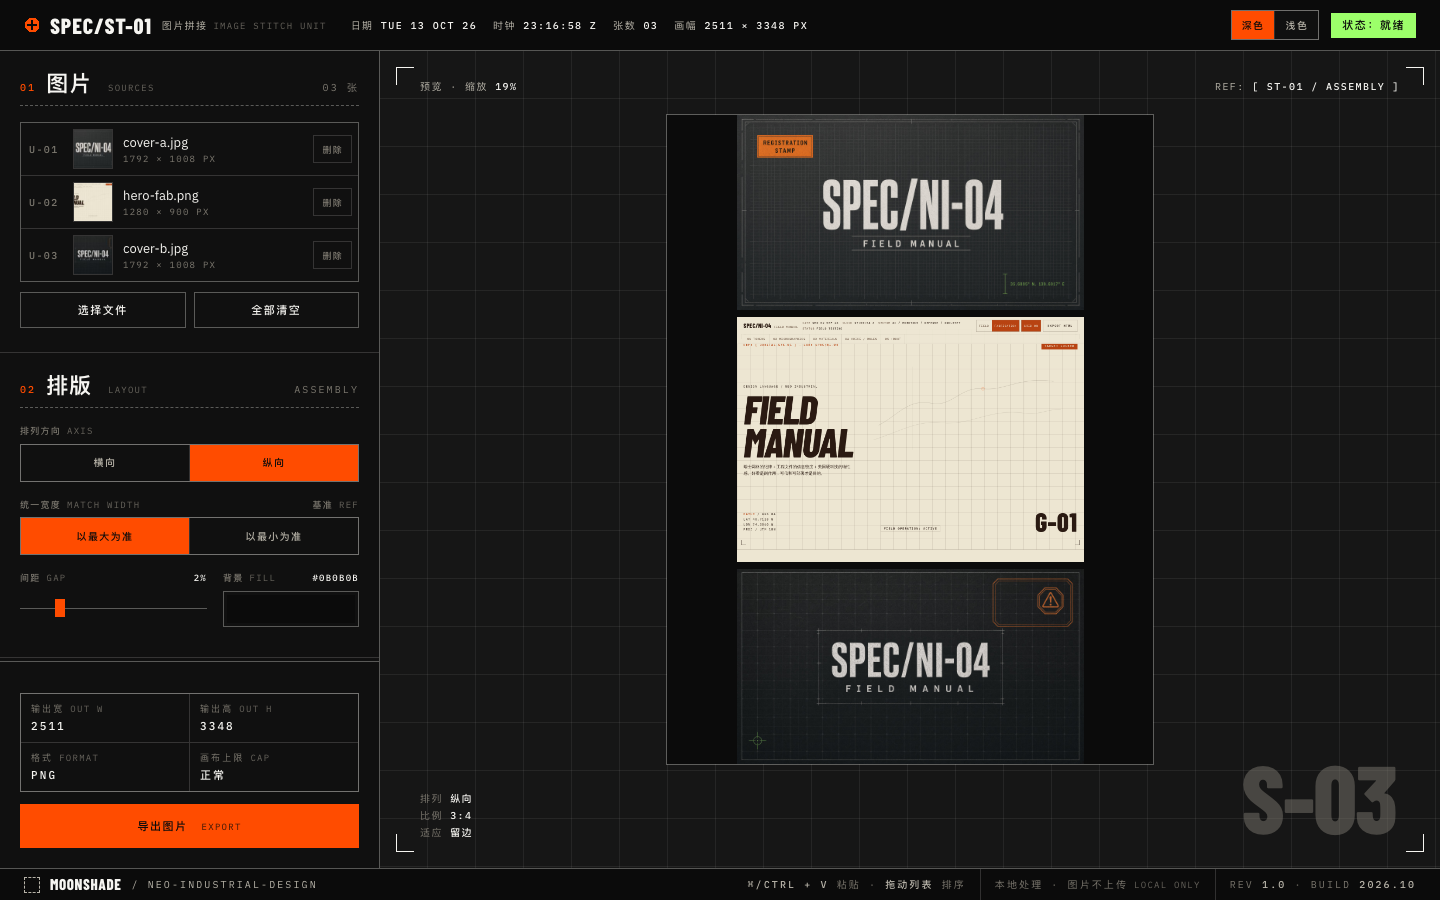
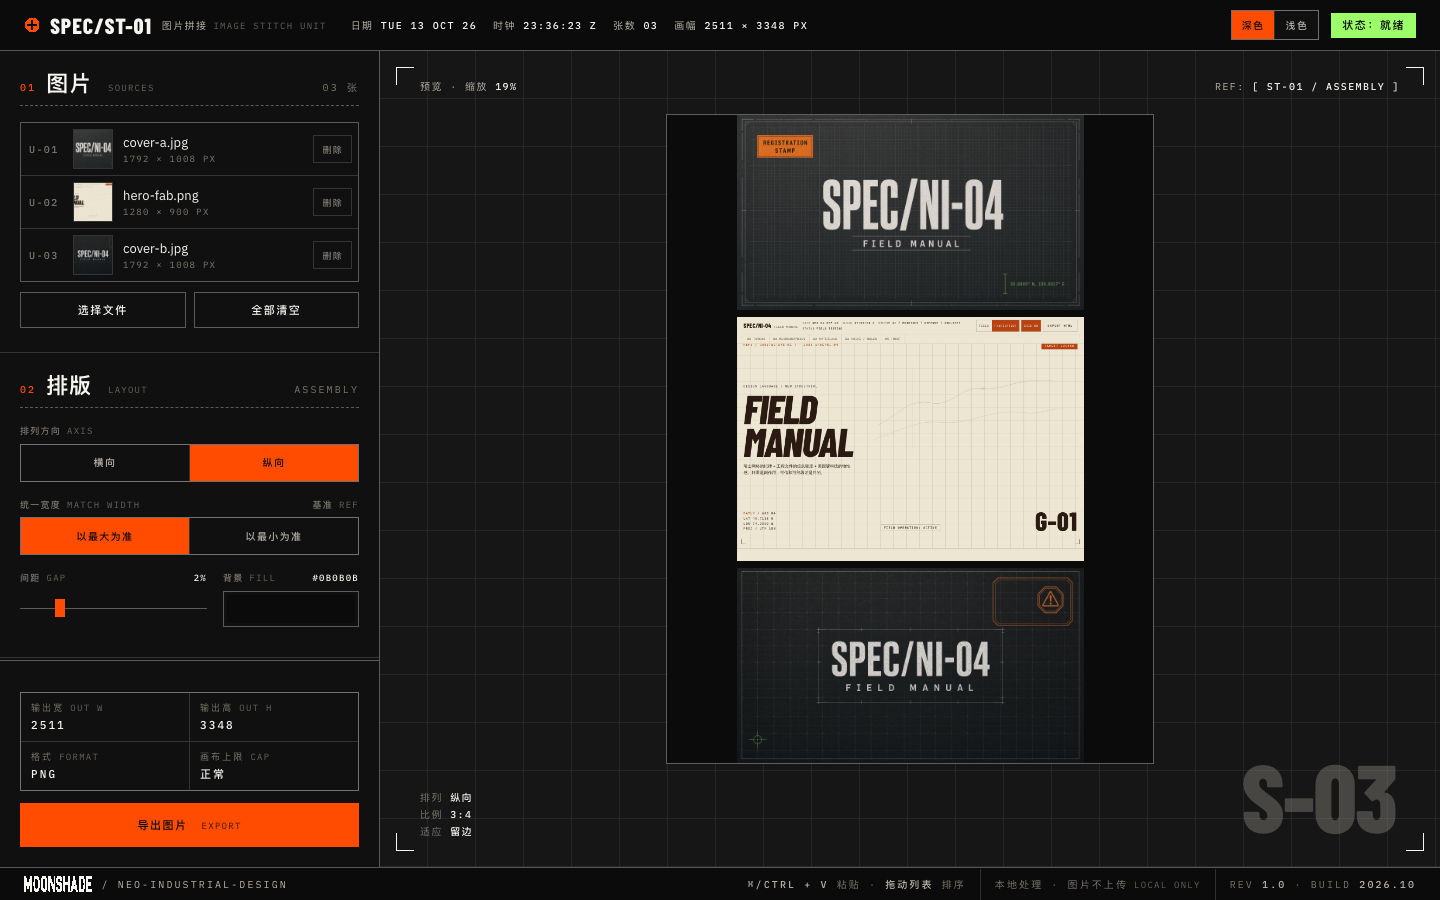
Use the MoonShade pixel wordmark in the image-stitcher footer
Replaces the dashed placeholder mark and the MOONSHADE text with the
pixel wordmark from the MoonShade design system, inlined as SVG and
filled with currentColor so it follows both atmospheres and the hover
state. The footer is 33px so the 16px mark lands on whole pixels.

diff --git a/examples/image-stitcher/index.html b/examples/image-stitcher/index.html
@@ -276,14 +276,13 @@ input[type=number]:hover { border-color: var(--text-primary); }
 /* ---------- 底部工具栏 ---------- */
 .foot {
   display: flex; align-items: center; justify-content: space-between; gap: 8px 24px; flex-wrap: wrap;
-  min-height: 32px; padding: 0 24px; border-top: 1px solid var(--border-strong); background: var(--surface-primary);
+  min-height: 33px; padding: 0 24px; border-top: 1px solid var(--border-strong); background: var(--surface-primary);
 }
 .sig { display: inline-flex; align-items: center; gap: 10px; color: var(--text-secondary); text-decoration: none; transition: color var(--motion-base) var(--ease); }
 .sig:hover { color: var(--signal-primary); }
-/* 个人标记占位：虚线=未定稿，拿到正式标记后替换为 SVG */
-.sig-mark { width: 16px; height: 16px; flex: none; border: 1px dashed currentColor; }
-.sig-name { font-family: var(--font-display); font-weight: 800; font-size: 15px; line-height: 1; letter-spacing: 0.04em; color: var(--text-primary); transition: color var(--motion-base) var(--ease); }
-.sig:hover .sig-name { color: var(--signal-primary); }
+/* 像素文字标共 16 行，高度取 16px 让每行正好落在整像素上 */
+.sig-logo { display: block; height: 16px; width: auto; flex: none; color: var(--text-primary); transition: color var(--motion-base) var(--ease); }
+.sig:hover .sig-logo { color: var(--signal-primary); }
 .sig-sys { font-size: var(--text-meta); font-weight: 400; }
 .foot-right { display: flex; flex-wrap: wrap; font-size: var(--text-meta); font-weight: 400; color: var(--text-muted); }
 .foot-right span { padding: 8px 0 8px 14px; margin-left: 14px; border-left: 1px solid var(--border-default); }
@@ -442,8 +441,7 @@ input[type=number]:hover { border-color: var(--text-primary); }
 
   <footer class="foot mono">
     <a class="sig" href="https://github.com/CloudyMoonShape/neo-industrial-design" target="_blank" rel="noopener">
-      <span class="sig-mark" aria-hidden="true"></span>
-      <span class="sig-name">MOONSHADE</span>
+      <svg class="sig-logo" viewBox="0 0 710 168" shape-rendering="crispEdges" role="img" aria-label="MoonShade"><g fill="currentColor"><rect x="0" y="0" width="20" height="10.5"/><rect x="65" y="0" width="20" height="10.5"/><rect x="110" y="0" width="40" height="10.5"/><rect x="190" y="0" width="40" height="10.5"/><rect x="255" y="0" width="25" height="10.5"/><rect x="310" y="0" width="15" height="10.5"/><rect x="350" y="0" width="40" height="10.5"/><rect x="410" y="0" width="20" height="10.5"/><rect x="460" y="0" width="20" height="10.5"/><rect x="515" y="0" width="20" height="10.5"/><rect x="575" y="0" width="50" height="10.5"/><rect x="650" y="0" width="60" height="10.5"/><rect x="0" y="10.5" width="25" height="10.5"/><rect x="60" y="10.5" width="25" height="10.5"/><rect x="105" y="10.5" width="50" height="10.5"/><rect x="185" y="10.5" width="50" height="10.5"/><rect x="255" y="10.5" width="25" height="10.5"/><rect x="310" y="10.5" width="15" height="10.5"/><rect x="345" y="10.5" width="50" height="10.5"/><rect x="410" y="10.5" width="20" height="10.5"/><rect x="460" y="10.5" width="20" height="10.5"/><rect x="515" y="10.5" width="20" height="10.5"/><rect x="575" y="10.5" width="55" height="10.5"/><rect x="650" y="10.5" width="60" height="10.5"/><rect x="0" y="21" width="30" height="10.5"/><rect x="60" y="21" width="25" height="10.5"/><rect x="100" y="21" width="60" height="10.5"/><rect x="180" y="21" width="60" height="10.5"/><rect x="255" y="21" width="30" height="10.5"/><rect x="310" y="21" width="15" height="10.5"/><rect x="340" y="21" width="60" height="10.5"/><rect x="410" y="21" width="20" height="10.5"/><rect x="460" y="21" width="20" height="10.5"/><rect x="515" y="21" width="25" height="10.5"/><rect x="575" y="21" width="60" height="10.5"/><rect x="650" y="21" width="60" height="10.5"/><rect x="0" y="31.5" width="30" height="10.5"/><rect x="55" y="31.5" width="30" height="10.5"/><rect x="100" y="31.5" width="20" height="10.5"/><rect x="140" y="31.5" width="20" height="10.5"/><rect x="180" y="31.5" width="20" height="10.5"/><rect x="220" y="31.5" width="20" height="10.5"/><rect x="255" y="31.5" width="35" height="10.5"/><rect x="310" y="31.5" width="15" height="10.5"/><rect x="340" y="31.5" width="20" height="10.5"/><rect x="380" y="31.5" width="20" height="10.5"/><rect x="410" y="31.5" width="20" height="10.5"/><rect x="460" y="31.5" width="20" height="10.5"/><rect x="510" y="31.5" width="30" height="10.5"/><rect x="575" y="31.5" width="20" height="10.5"/><rect x="615" y="31.5" width="25" height="10.5"/><rect x="650" y="31.5" width="20" height="10.5"/><rect x="0" y="42" width="35" height="10.5"/><rect x="55" y="42" width="30" height="10.5"/><rect x="100" y="42" width="20" height="10.5"/><rect x="145" y="42" width="20" height="10.5"/><rect x="180" y="42" width="20" height="10.5"/><rect x="225" y="42" width="20" height="10.5"/><rect x="255" y="42" width="35" height="10.5"/><rect x="310" y="42" width="15" height="10.5"/><rect x="340" y="42" width="15" height="10.5"/><rect x="380" y="42" width="20" height="10.5"/><rect x="410" y="42" width="20" height="10.5"/><rect x="460" y="42" width="20" height="10.5"/><rect x="510" y="42" width="35" height="10.5"/><rect x="575" y="42" width="20" height="10.5"/><rect x="620" y="42" width="20" height="10.5"/><rect x="650" y="42" width="20" height="10.5"/><rect x="0" y="52.5" width="35" height="10.5"/><rect x="50" y="52.5" width="35" height="10.5"/><rect x="100" y="52.5" width="15" height="10.5"/><rect x="145" y="52.5" width="20" height="10.5"/><rect x="180" y="52.5" width="15" height="10.5"/><rect x="225" y="52.5" width="20" height="10.5"/><rect x="255" y="52.5" width="40" height="10.5"/><rect x="310" y="52.5" width="15" height="10.5"/><rect x="340" y="52.5" width="20" height="10.5"/><rect x="410" y="52.5" width="20" height="10.5"/><rect x="460" y="52.5" width="20" height="10.5"/><rect x="505" y="52.5" width="40" height="10.5"/><rect x="575" y="52.5" width="20" height="10.5"/><rect x="620" y="52.5" width="20" height="10.5"/><rect x="650" y="52.5" width="20" height="10.5"/><rect x="0" y="63" width="40" height="10.5"/><rect x="45" y="63" width="40" height="10.5"/><rect x="95" y="63" width="20" height="10.5"/><rect x="145" y="63" width="20" height="10.5"/><rect x="175" y="63" width="20" height="10.5"/><rect x="225" y="63" width="20" height="10.5"/><rect x="255" y="63" width="45" height="10.5"/><rect x="310" y="63" width="15" height="10.5"/><rect x="340" y="63" width="45" height="10.5"/><rect x="410" y="63" width="70" height="10.5"/><rect x="505" y="63" width="20" height="10.5"/><rect x="530" y="63" width="15" height="10.5"/><rect x="575" y="63" width="20" height="10.5"/><rect x="620" y="63" width="20" height="10.5"/><rect x="650" y="63" width="55" height="10.5"/><rect x="0" y="73.5" width="40" height="10.5"/><rect x="45" y="73.5" width="40" height="10.5"/><rect x="95" y="73.5" width="20" height="10.5"/><rect x="145" y="73.5" width="20" height="10.5"/><rect x="175" y="73.5" width="20" height="10.5"/><rect x="225" y="73.5" width="20" height="10.5"/><rect x="255" y="73.5" width="20" height="10.5"/><rect x="280" y="73.5" width="20" height="10.5"/><rect x="310" y="73.5" width="15" height="10.5"/><rect x="345" y="73.5" width="50" height="10.5"/><rect x="410" y="73.5" width="70" height="10.5"/><rect x="500" y="73.5" width="20" height="10.5"/><rect x="530" y="73.5" width="20" height="10.5"/><rect x="575" y="73.5" width="20" height="10.5"/><rect x="625" y="73.5" width="15" height="10.5"/><rect x="650" y="73.5" width="55" height="10.5"/><rect x="0" y="84" width="20" height="10.5"/><rect x="25" y="84" width="35" height="10.5"/><rect x="65" y="84" width="20" height="10.5"/><rect x="95" y="84" width="20" height="10.5"/><rect x="145" y="84" width="20" height="10.5"/><rect x="175" y="84" width="20" height="10.5"/><rect x="225" y="84" width="20" height="10.5"/><rect x="255" y="84" width="20" height="10.5"/><rect x="280" y="84" width="45" height="10.5"/><rect x="350" y="84" width="50" height="10.5"/><rect x="410" y="84" width="70" height="10.5"/><rect x="500" y="84" width="20" height="10.5"/><rect x="530" y="84" width="20" height="10.5"/><rect x="575" y="84" width="20" height="10.5"/><rect x="625" y="84" width="15" height="10.5"/><rect x="650" y="84" width="55" height="10.5"/><rect x="0" y="94.5" width="20" height="10.5"/><rect x="25" y="94.5" width="35" height="10.5"/><rect x="65" y="94.5" width="20" height="10.5"/><rect x="95" y="94.5" width="20" height="10.5"/><rect x="145" y="94.5" width="20" height="10.5"/><rect x="175" y="94.5" width="20" height="10.5"/><rect x="225" y="94.5" width="20" height="10.5"/><rect x="255" y="94.5" width="20" height="10.5"/><rect x="285" y="94.5" width="40" height="10.5"/><rect x="370" y="94.5" width="30" height="10.5"/><rect x="410" y="94.5" width="25" height="10.5"/><rect x="460" y="94.5" width="20" height="10.5"/><rect x="500" y="94.5" width="20" height="10.5"/><rect x="535" y="94.5" width="20" height="10.5"/><rect x="575" y="94.5" width="20" height="10.5"/><rect x="620" y="94.5" width="20" height="10.5"/><rect x="650" y="94.5" width="55" height="10.5"/><rect x="0" y="105" width="20" height="10.5"/><rect x="30" y="105" width="25" height="10.5"/><rect x="65" y="105" width="20" height="10.5"/><rect x="100" y="105" width="15" height="10.5"/><rect x="145" y="105" width="20" height="10.5"/><rect x="180" y="105" width="15" height="10.5"/><rect x="225" y="105" width="20" height="10.5"/><rect x="255" y="105" width="20" height="10.5"/><rect x="290" y="105" width="35" height="10.5"/><rect x="380" y="105" width="20" height="10.5"/><rect x="410" y="105" width="20" height="10.5"/><rect x="460" y="105" width="20" height="10.5"/><rect x="495" y="105" width="60" height="10.5"/><rect x="575" y="105" width="20" height="10.5"/><rect x="620" y="105" width="20" height="10.5"/><rect x="650" y="105" width="20" height="10.5"/><rect x="0" y="115.5" width="20" height="10.5"/><rect x="30" y="115.5" width="25" height="10.5"/><rect x="65" y="115.5" width="20" height="10.5"/><rect x="100" y="115.5" width="20" height="10.5"/><rect x="145" y="115.5" width="20" height="10.5"/><rect x="180" y="115.5" width="20" height="10.5"/><rect x="225" y="115.5" width="20" height="10.5"/><rect x="255" y="115.5" width="20" height="10.5"/><rect x="290" y="115.5" width="35" height="10.5"/><rect x="335" y="115.5" width="20" height="10.5"/><rect x="380" y="115.5" width="20" height="10.5"/><rect x="410" y="115.5" width="20" height="10.5"/><rect x="460" y="115.5" width="20" height="10.5"/><rect x="495" y="115.5" width="60" height="10.5"/><rect x="575" y="115.5" width="20" height="10.5"/><rect x="620" y="115.5" width="20" height="10.5"/><rect x="650" y="115.5" width="20" height="10.5"/><rect x="0" y="126" width="20" height="10.5"/><rect x="35" y="126" width="15" height="10.5"/><rect x="65" y="126" width="20" height="10.5"/><rect x="100" y="126" width="25" height="10.5"/><rect x="140" y="126" width="20" height="10.5"/><rect x="180" y="126" width="25" height="10.5"/><rect x="220" y="126" width="20" height="10.5"/><rect x="255" y="126" width="20" height="10.5"/><rect x="295" y="126" width="30" height="10.5"/><rect x="340" y="126" width="20" height="10.5"/><rect x="380" y="126" width="20" height="10.5"/><rect x="410" y="126" width="20" height="10.5"/><rect x="460" y="126" width="20" height="10.5"/><rect x="490" y="126" width="70" height="10.5"/><rect x="575" y="126" width="20" height="10.5"/><rect x="615" y="126" width="25" height="10.5"/><rect x="650" y="126" width="20" height="10.5"/><rect x="0" y="136.5" width="20" height="10.5"/><rect x="65" y="136.5" width="20" height="10.5"/><rect x="100" y="136.5" width="60" height="10.5"/><rect x="180" y="136.5" width="60" height="10.5"/><rect x="255" y="136.5" width="20" height="10.5"/><rect x="300" y="136.5" width="25" height="10.5"/><rect x="340" y="136.5" width="60" height="10.5"/><rect x="410" y="136.5" width="20" height="10.5"/><rect x="460" y="136.5" width="20" height="10.5"/><rect x="490" y="136.5" width="20" height="10.5"/><rect x="540" y="136.5" width="20" height="10.5"/><rect x="575" y="136.5" width="60" height="10.5"/><rect x="650" y="136.5" width="60" height="10.5"/><rect x="0" y="147" width="20" height="10.5"/><rect x="65" y="147" width="20" height="10.5"/><rect x="105" y="147" width="50" height="10.5"/><rect x="185" y="147" width="50" height="10.5"/><rect x="255" y="147" width="20" height="10.5"/><rect x="305" y="147" width="20" height="10.5"/><rect x="345" y="147" width="50" height="10.5"/><rect x="410" y="147" width="20" height="10.5"/><rect x="460" y="147" width="20" height="10.5"/><rect x="490" y="147" width="20" height="10.5"/><rect x="545" y="147" width="20" height="10.5"/><rect x="575" y="147" width="55" height="10.5"/><rect x="650" y="147" width="60" height="10.5"/><rect x="5" y="157.5" width="15" height="10.5"/><rect x="65" y="157.5" width="20" height="10.5"/><rect x="115" y="157.5" width="35" height="10.5"/><rect x="195" y="157.5" width="35" height="10.5"/><rect x="260" y="157.5" width="15" height="10.5"/><rect x="305" y="157.5" width="20" height="10.5"/><rect x="350" y="157.5" width="35" height="10.5"/><rect x="415" y="157.5" width="15" height="10.5"/><rect x="460" y="157.5" width="20" height="10.5"/><rect x="485" y="157.5" width="20" height="10.5"/><rect x="545" y="157.5" width="20" height="10.5"/><rect x="575" y="157.5" width="50" height="10.5"/><rect x="655" y="157.5" width="55" height="10.5"/></g></svg>
       <span class="sig-sys">/ NEO-INDUSTRIAL-DESIGN</span>
     </a>
     <div class="foot-right">
